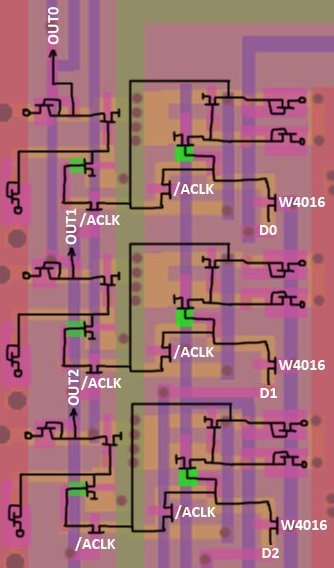
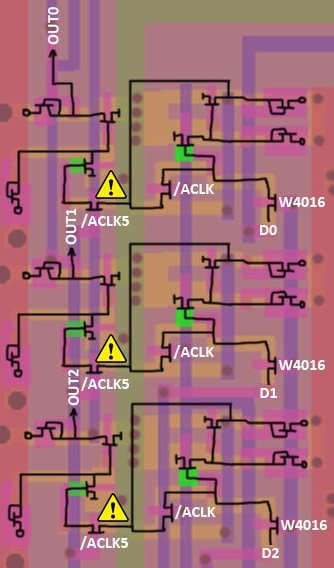
#969
Named as /ACLK5

Changed region(s): [[0.2096, 0.868, 0.3892, 0.9877], [0.2395, 0.2993, 0.3892, 0.419], [0.2395, 0.5687, 0.3892, 0.6884]]

diff --git a/Scripts/TopoShredder.py b/Scripts/TopoShredder.py
@@ -149,6 +149,7 @@ def ApuShredder (FusedTopo):
 	CropImage (FusedTopo, imgstore + "nACLK2", [4451, 7154, 233, 184] )
 	CropImage (FusedTopo, imgstore + "nACLK3", [4799, 3233, 200, 181] )
 	CropImage (FusedTopo, imgstore + "nACLK4", [3050, 7710, 261, 187] )
+	CropImage (FusedTopo, imgstore + "nACLK5", [7845, 2000, 234, 616] )
 
 def PpuShredder (FusedTopo):
 	# TBD: Add missing labels in psd

diff --git a/BreakingNESWiki/APU/clkgen.md b/BreakingNESWiki/APU/clkgen.md
@@ -125,3 +125,9 @@ Soft CLK управляется регистром $4017 (write-only):
 Используется в [генераторе шума](noise.md) и схеме контроля [счётчиками длительности](length.md).
 
 ![nACLK4](/BreakingNESWiki/imgstore/apu/nACLK4.jpg)
+
+### /ACLK5
+
+Используется в I/O защёлках, которые формируют сигналы OUTx для соответствующих выходных терминалов.
+
+![nACLK5](/BreakingNESWiki/imgstore/apu/nACLK5.jpg)

diff --git a/BreakingNESWiki_DeepL/APU/clkgen.md b/BreakingNESWiki_DeepL/APU/clkgen.md
@@ -125,3 +125,9 @@ But in the general schematic for the two channels, the signal is simply marked a
 Used in the [noise generator](noise.md) and [length counter](length.md) control circuitry.
 
 ![nACLK4](/BreakingNESWiki/imgstore/apu/nACLK4.jpg)
+
+### /ACLK5
+
+Used in I/O latches that generate OUTx signals for the corresponding output terminals.
+
+![nACLK5](/BreakingNESWiki/imgstore/apu/nACLK5.jpg)
